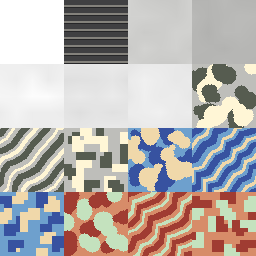
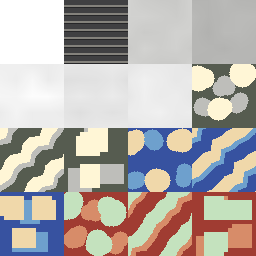
feat: bold two-tone camo - navy-and-sand in a few big patches, steel blue an accent
Each hull face shows the whole 64-texel tile in about 40 screen pixels, so D2f's dozen small
patches over a steel-blue base rendered as speckle. The team tiles are now filled with the dark
tone (navy / oxblood), the sand (light) tone goes on first in 3 big patches (blobs radius 11-13,
discs >= kMinPatchRadius 8, so 16+ texels across; stripes 16-20 wide; blocks 20-texel stamps),
then 3 mid-tone accents. Every patch paints only the dark ground, so no patch breaks up another.
Sand 30-41% of every tile, the mid 12-25%. Same treatment for all three styles and both teams;
manifest, layout, UVs, loader, kHullPaleMix unchanged. No sim, ai or renderer change.

New test AtlasPaint.EachHullTilesSandIsAFewBoldPatchesCoveringAThirdOfIt pins sand coverage
0.30-0.45, 2-4 sand patches each spanning >= 16 texels holding >= 90% of the sand, and the mid as
the minor tone. 717 -> 718, all pass; atlas.png 15441 -> 12598 bytes.

Seed-7 tank box census (x 367-432, y 389-447): non-blue 543 -> 585 of 3804 (14.3% -> 15.4%),
SHORT of the 25% target. Only 238 of those 3804 pixels are hull (probe-atlas diff); the rest are
turret, bustle and tracks in the saturated side colour, plus terrain. On the hull pixels themselves,
non-blue went 53% -> 71%. The box cannot reach 25% from the hull tile alone.

diff --git a/src/game/atlas.cpp b/src/game/atlas.cpp
@@ -53,23 +53,24 @@ constexpr int kFirstTeamHullTile = 10;
 
 constexpr Rgb kWhite{255, 255, 255};
 constexpr Rgb kMagenta{255, 0, 255};
-/// A camo palette: the base the tile is filled with, a dark tone and a light one painted over it.
+/// A camo palette: a mid tone (a minor accent), the dark tone the tile is filled with, and the
+/// light (sand) tone painted over both in big patches.
 struct Palette {
-    Rgb base;
+    Rgb mid;
     Rgb dark;
     Rgb light;
 };
 
-/// The neutral camo of tank_hull_a/b/c. The base sits well under 255 so the sand can be BRIGHTER
+/// The neutral camo of tank_hull_a/b/c. The mid sits well under 255 so the sand can be BRIGHTER
 /// than it: camo reads by lightness, and a sand that only shifted the hue would vanish on a blue
 /// tank.
 constexpr Palette kNeutralCamo{{190, 190, 186}, {86, 92, 80}, {255, 246, 214}};
 /// The TEAM camo. A neutral camo multiplied by a saturated side colour collapses into one hue in
 /// several brightnesses, which reads as shading, not camo; so each team's tiles carry the team's
-/// own hue family -- a dark tone near 0.32 luma, a mid base near 0.60 -- and a light tone near
+/// own hue family -- a dark tone near 0.32 luma, a mid accent near 0.60 -- and a light tone near
 /// 0.85 from ANOTHER hue family, so the pattern reads by hue as well as by lightness. The hull's
 /// vertex colour is only a pale tint of the side colour (see the scene), so these tones survive it.
-/// Player: navy, steel blue, sand. Enemy: oxblood, brick, pale sage.
+/// Player: navy and sand, steel-blue accent. Enemy: oxblood and pale sage, brick accent.
 constexpr Palette kPlayerCamo{{110, 160, 205}, {55, 82, 160}, {240, 216, 170}};
 constexpr Palette kEnemyCamo{{215, 140, 105}, {160, 60, 50}, {196, 226, 190}};
 constexpr Rgb kTrackBase{64, 64, 66};    ///< the scene's old kTrackTint
@@ -107,44 +108,65 @@ private:
     std::uint64_t state_;
 };
 
+/// The pattern's carriers are the dark and the light (sand) tone, the pair a hue apart: the tile is
+/// filled with the dark one and the sand goes on first, in a few BIG patches; the mid tone is only
+/// a minor accent after it. Every patch paints only the dark ground, so a later patch never breaks
+/// up an earlier one. A hull face shows the whole 64-texel tile in about 40 screen pixels, so a
+/// dozen small patches render as speckle and the face reads as one colour: each pattern puts 2-4
+/// bold sand patches, every one 16+ texels across, on the tile.
+constexpr int kSandPatches = 3;    ///< sand patches a tile is painted with
+constexpr int kAccentPatches = 3;  ///< mid-tone patches, painted after the sand, around it
+constexpr int kMinPatchRadius = 8; ///< so a patch spans 16+ texels
+
+/// Texel (x, y) becomes `tone` if it is still `ground`.
+void paint_over(Tile& tile, int x, int y, const Rgb& ground, const Rgb& tone) {
+    Rgb& at = texel(tile, static_cast<std::uint32_t>(x), static_cast<std::uint32_t>(y));
+    at = at == ground ? tone : at;
+}
+
 /// Camo A, SPLODGES: blobs, each a cluster of overlapping discs stamped at hashed offsets from a
-/// hashed centre, dark and sand in a checker over a 4 x 3 grid of cells (one blob a cell, so the
-/// whole tile is covered, not a corner of it); a later blob paints over an earlier one.
-Tile paint_splodges(std::uint64_t seed, int tile_index, const Palette& camo) {
-    Tile tile{};
-    tile.fill(camo.base);
-    HashWalk walk(seed, tile_index);
-    constexpr int kColumns = 4;
-    constexpr int kRows = 3;
+/// hashed centre. Blob `i` of `count` is centred in its own strip of the tile's width, alternately
+/// in the top and the bottom half (`phase` flips which), so the blobs spread over the whole tile
+/// and stay apart rather than running into one.
+void paint_blobs(Tile& tile, HashWalk& walk, int count, int phase, int lo, int hi,
+                 const Rgb& ground, const Rgb& tone) {
     constexpr int kDiscs = 4;
-    for (int blob = 0; blob < kColumns * kRows; ++blob) {
-        const int column = blob % kColumns;
-        const int row = blob / kColumns;
-        const Rgb tone = ((column + row) % 2) == 0 ? camo.dark : camo.light;
-        const int cx = (column * 16) + walk.between(0, 15);
-        const int cy = (row * 21) + walk.between(0, 20);
-        const int size = walk.between(7, 10);
+    const int strip = 64 / count;
+    for (int blob = 0; blob < count; ++blob) {
+        const int cx = (blob * strip) + walk.between(strip / 4, strip - (strip / 4));
+        const int cy = ((blob + phase) % 2) == 0 ? walk.between(10, 24) : walk.between(39, 53);
+        const int size = walk.between(lo, hi);
         for (int disc = 0; disc < kDiscs; ++disc) {
-            const int dx = disc == 0 ? 0 : walk.between(-size, size);
-            const int dy = disc == 0 ? 0 : walk.between(-size, size);
-            const int r = disc == 0 ? size : walk.between(size / 2, size - 1);
-            for (int y = cy + dy - r; y <= cy + dy + r; ++y) {
-                for (int x = cx + dx - r; x <= cx + dx + r; ++x) {
-                    const int ox = x - cx - dx;
-                    const int oy = y - cy - dy;
-                    if (x >= 0 && y >= 0 && x < 64 && y < 64 && (ox * ox) + (oy * oy) <= r * r) {
-                        texel(tile, static_cast<std::uint32_t>(x), static_cast<std::uint32_t>(y))
-                            = tone;
+            const int dx = disc == 0 ? 0 : walk.between(-size / 2, size / 2);
+            const int dy = disc == 0 ? 0 : walk.between(-size / 2, size / 2);
+            const int r = disc == 0 ? size : walk.between(kMinPatchRadius, size);
+            const int ox = cx + dx;
+            const int oy = cy + dy;
+            for (int y = std::max(oy - r, 0); y <= std::min(oy + r, 63); ++y) {
+                for (int x = std::max(ox - r, 0); x <= std::min(ox + r, 63); ++x) {
+                    if (((x - ox) * (x - ox)) + ((y - oy) * (y - oy)) <= r * r) {
+                        paint_over(tile, x, y, ground, tone);
                     }
                 }
             }
         }
     }
+}
+
+Tile paint_splodges(std::uint64_t seed, int tile_index, const Palette& camo) {
+    Tile tile{};
+    tile.fill(camo.dark);
+    HashWalk walk(seed, tile_index);
+    paint_blobs(tile, walk, kSandPatches, 0, kMinPatchRadius + 3, kMinPatchRadius + 5, camo.dark,
+                camo.light);
+    paint_blobs(tile, walk, kAccentPatches, 1, kMinPatchRadius, kMinPatchRadius + 1, camo.dark,
+                camo.mid);
     return tile;
 }
 
-/// Camo B, STRIPES: diagonal bands -- dark, base, sand, base, with hashed widths -- whose edges
-/// wander a few texels along their length, so they read as brushed stripes rather than a ruler's.
+/// Camo B, STRIPES: broad diagonal bands -- dark, sand, then a narrow mid accent -- with hashed
+/// widths, whose edges wander a few texels along their length, so they read as brushed stripes
+/// rather than a ruler's.
 Tile paint_stripes(std::uint64_t seed, int tile_index, const Palette& camo) {
     Tile tile{};
     HashWalk walk(seed, tile_index);
@@ -153,14 +175,14 @@ Tile paint_stripes(std::uint64_t seed, int tile_index, const Palette& camo) {
     std::array<Rgb, 176> bands{};
     int at = 0;
     for (int band = 0; at < static_cast<int>(bands.size()); ++band) {
-        Rgb tone = camo.base;
-        int width = walk.between(4, 7);
-        if (band % 4 == 0) {
-            tone = camo.dark;
-            width = walk.between(7, 11);
-        } else if (band % 4 == 2) {
+        Rgb tone = camo.dark;
+        int width = walk.between(2 * kMinPatchRadius, (2 * kMinPatchRadius) + 4);
+        if (band % 3 == 1) {
             tone = camo.light;
-            width = walk.between(4, 6);
+            width = walk.between(2 * kMinPatchRadius, (2 * kMinPatchRadius) + 4);
+        } else if (band % 3 == 2) {
+            tone = camo.mid;
+            width = walk.between(7, 9);
         }
         for (int i = 0; i < width && at < static_cast<int>(bands.size()); ++i) {
             bands.at(static_cast<std::size_t>(at++)) = tone;
@@ -189,37 +211,36 @@ Tile paint_stripes(std::uint64_t seed, int tile_index, const Palette& camo) {
 }
 
 /// Camo C, BLOCKS: a digital pattern. Walkers step one 4-texel cell at a time in hashed directions
-/// and stamp a 2x2-cell square wherever they stand, so the patches are blocky clusters whose every
-/// edge lies on the 4-texel grid. Each walker starts in its own quarter-by-quarter square of the
-/// tile, so the clusters spread over all of it.
-Tile paint_blocks(std::uint64_t seed, int tile_index, const Palette& camo) {
-    Tile tile{};
-    tile.fill(camo.base);
-    HashWalk walk(seed, tile_index);
+/// and stamp a 5x5-cell square wherever they stand, so the patches are big blocky clusters whose
+/// every edge lies on the 4-texel grid. Walker `i` of `count` starts in its own strip of the tile's
+/// width, alternately at the top and the bottom (`phase` flips which), so the clusters spread over
+/// all of it and stay apart.
+void walk_blocks(Tile& tile, HashWalk& walk, int count, int phase, int steps_lo, int steps_hi,
+                 const Rgb& ground, const Rgb& tone) {
     constexpr int kCell = 4;
     constexpr int kCells = 64 / kCell;
-    constexpr int kWalkers = 16;
-    for (int walker = 0; walker < kWalkers; ++walker) {
-        const Rgb tone = (((walker % 4) + (walker / 4)) % 2) == 0 ? camo.dark : camo.light;
-        int cx = ((walker % 4) * 4) + walk.between(0, 2);
-        int cy = ((walker / 4) * 4) + walk.between(0, 2);
-        const int steps = walk.between(4, 7);
+    constexpr int kStamp = ((2 * kMinPatchRadius) / kCell) + 1; // cells a side: 20 texels
+    const int strip = (kCells - kStamp) / count;
+    for (int walker = 0; walker < count; ++walker) {
+        int cx = (walker * strip) + walk.between(0, strip);
+        int cy = ((walker + phase) % 2) == 0 ? walk.between(0, 2)
+                                             : walk.between(kCells - kStamp - 2, kCells - kStamp);
+        const int steps = walk.between(steps_lo, steps_hi);
         for (int step = 0; step < steps; ++step) {
-            for (int y = cy * kCell; y < (cy + 2) * kCell && y < 64; ++y) {
-                for (int x = cx * kCell; x < (cx + 2) * kCell && x < 64; ++x) {
-                    texel(tile, static_cast<std::uint32_t>(x), static_cast<std::uint32_t>(y))
-                        = tone;
+            for (int y = cy * kCell; y < (cy + kStamp) * kCell; ++y) {
+                for (int x = cx * kCell; x < (cx + kStamp) * kCell; ++x) {
+                    paint_over(tile, x, y, ground, tone);
                 }
             }
             switch (walk.between(0, 3)) {
             case 0:
-                cx = std::min(cx + 1, kCells - 2);
+                cx = std::min(cx + 1, kCells - kStamp);
                 break;
             case 1:
                 cx = std::max(cx - 1, 0);
                 break;
             case 2:
-                cy = std::min(cy + 1, kCells - 2);
+                cy = std::min(cy + 1, kCells - kStamp);
                 break;
             default:
                 cy = std::max(cy - 1, 0);
@@ -227,6 +248,14 @@ Tile paint_blocks(std::uint64_t seed, int tile_index, const Palette& camo) {
             }
         }
     }
+}
+
+Tile paint_blocks(std::uint64_t seed, int tile_index, const Palette& camo) {
+    Tile tile{};
+    tile.fill(camo.dark);
+    HashWalk walk(seed, tile_index);
+    walk_blocks(tile, walk, kSandPatches, 0, 2, 4, camo.dark, camo.light);
+    walk_blocks(tile, walk, kAccentPatches, 1, 2, 3, camo.dark, camo.mid);
     return tile;
 }
 

diff --git a/tests/test_atlas.cpp b/tests/test_atlas.cpp
@@ -415,6 +415,88 @@ TEST(AtlasPaint, EachTeamsCamoIsInItsOwnHueFamily) {
     }
 }
 
+/// D2g: the camo must read ON THE RENDERED TANK, where a hull face shows the whole tile in about 40
+/// screen pixels. At D2f the tile passed its gate but the seed-7 tank box was 3261 of 3804 pixels
+/// blue-family: sand covered ~10-15% of the tile in a dozen small specks. So the sand -- the tone a
+/// hue apart from the team's dark -- carries the pattern, in a few big patches.
+/// The share of the tile the sand (lightest) tone must cover, at least and at most.
+constexpr double kMinSandCoverage = 0.30;
+constexpr double kMaxSandCoverage = 0.45;
+/// A sand patch counts as a PATCH, not a speck, if it spans this many texels across or down...
+constexpr int kMinPatchSpan = 16;
+/// ...and nearly all the sand must lie in such patches (a sliver clipped by the tile's corner may
+/// not), and there are only a few of them: bold, not speckle.
+constexpr double kMinSandInPatches = 0.90;
+constexpr int kMinSandPatches = 2;
+constexpr int kMaxSandPatches = 4;
+
+TEST(AtlasPaint, EachHullTilesSandIsAFewBoldPatchesCoveringAThirdOfIt) {
+    const auto px = protekt::game::atlas_pixels();
+    for (const int tile : kHullTiles) {
+        const auto [darkest, sand] = tone_extremes(px, tile);
+        std::array<bool, 4096> seen{};
+        int sand_total = 0;
+        int sand_in_patches = 0;
+        int patches = 0;
+        for (int start = 0; start < 4096; ++start) {
+            if (seen.at(static_cast<std::size_t>(start))
+                || texel(px, tile, start % 64, start / 64) != sand) {
+                continue;
+            }
+            // Flood the 4-connected sand patch from `start`, keeping its size and bounding box.
+            std::vector<int> stack{start};
+            seen.at(static_cast<std::size_t>(start)) = true;
+            int size = 0;
+            int x0 = 64;
+            int x1 = -1;
+            int y0 = 64;
+            int y1 = -1;
+            while (!stack.empty()) {
+                const int at = stack.back();
+                stack.pop_back();
+                const int x = at % 64;
+                const int y = at / 64;
+                ++size;
+                x0 = std::min(x0, x);
+                x1 = std::max(x1, x);
+                y0 = std::min(y0, y);
+                y1 = std::max(y1, y);
+                for (const auto& [nx, ny] : std::array<std::array<int, 2>, 4>{
+                         {{x - 1, y}, {x + 1, y}, {x, y - 1}, {x, y + 1}}}) {
+                    const int next = (ny * 64) + nx;
+                    if (nx >= 0 && ny >= 0 && nx < 64 && ny < 64
+                        && !seen.at(static_cast<std::size_t>(next))
+                        && texel(px, tile, nx, ny) == sand) {
+                        seen.at(static_cast<std::size_t>(next)) = true;
+                        stack.push_back(next);
+                    }
+                }
+            }
+            sand_total += size;
+            if (std::max(x1 - x0, y1 - y0) + 1 >= kMinPatchSpan) {
+                sand_in_patches += size;
+                ++patches;
+            }
+        }
+        const double coverage = sand_total / 4096.0;
+        EXPECT_GE(coverage, kMinSandCoverage) << "tile " << tile;
+        EXPECT_LE(coverage, kMaxSandCoverage) << "tile " << tile;
+        EXPECT_GE(sand_in_patches, kMinSandInPatches * sand_total)
+            << "tile " << tile << ": the sand is patches, not specks";
+        EXPECT_GE(patches, kMinSandPatches) << "tile " << tile;
+        EXPECT_LE(patches, kMaxSandPatches) << "tile " << tile;
+        // The pattern is two-tone dark-and-sand: the mid tone is only an accent.
+        const auto shares = tone_shares(px, tile);
+        EXPECT_GT(shares.at(darkest), shares.at(sand) / 2) << "tile " << tile;
+        for (const auto& [rgb, share] : shares) {
+            if (rgb != darkest && rgb != sand) {
+                EXPECT_LT(share, shares.at(sand)) << "tile " << tile << ": the mid is an accent";
+                EXPECT_LT(share, shares.at(darkest)) << "tile " << tile << ": the mid is an accent";
+            }
+        }
+    }
+}
+
 TEST(AtlasPaint, TheTrackTileIsDarkWithLighterLinkStripesAcrossItsHeight) {
     const auto px = protekt::game::atlas_pixels();
     int light_rows = 0;
